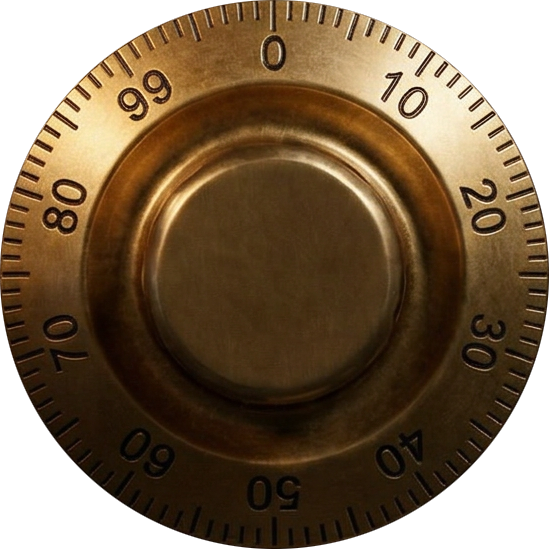
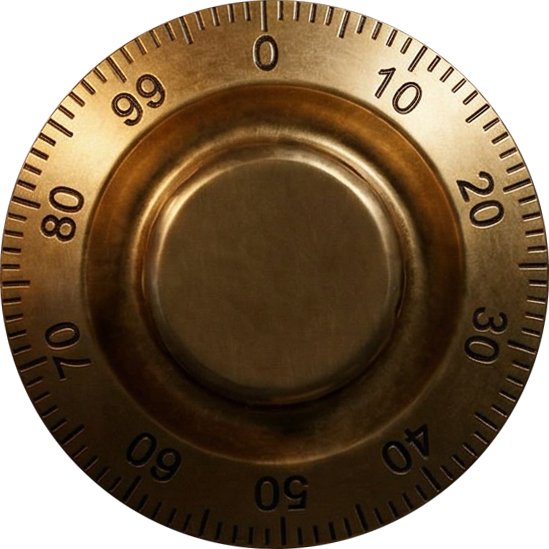
Add updated rotary dial asset, dial area top 36.0%

diff --git a/css/style.css b/css/style.css
@@ -2181,7 +2181,7 @@ body {
 }
 .safe-dial-area {
   position: absolute;
-  top: 36.3%;
+  top: 36.0%;
   left: 37.4%;
   width: 26%;
   height: 26%;
